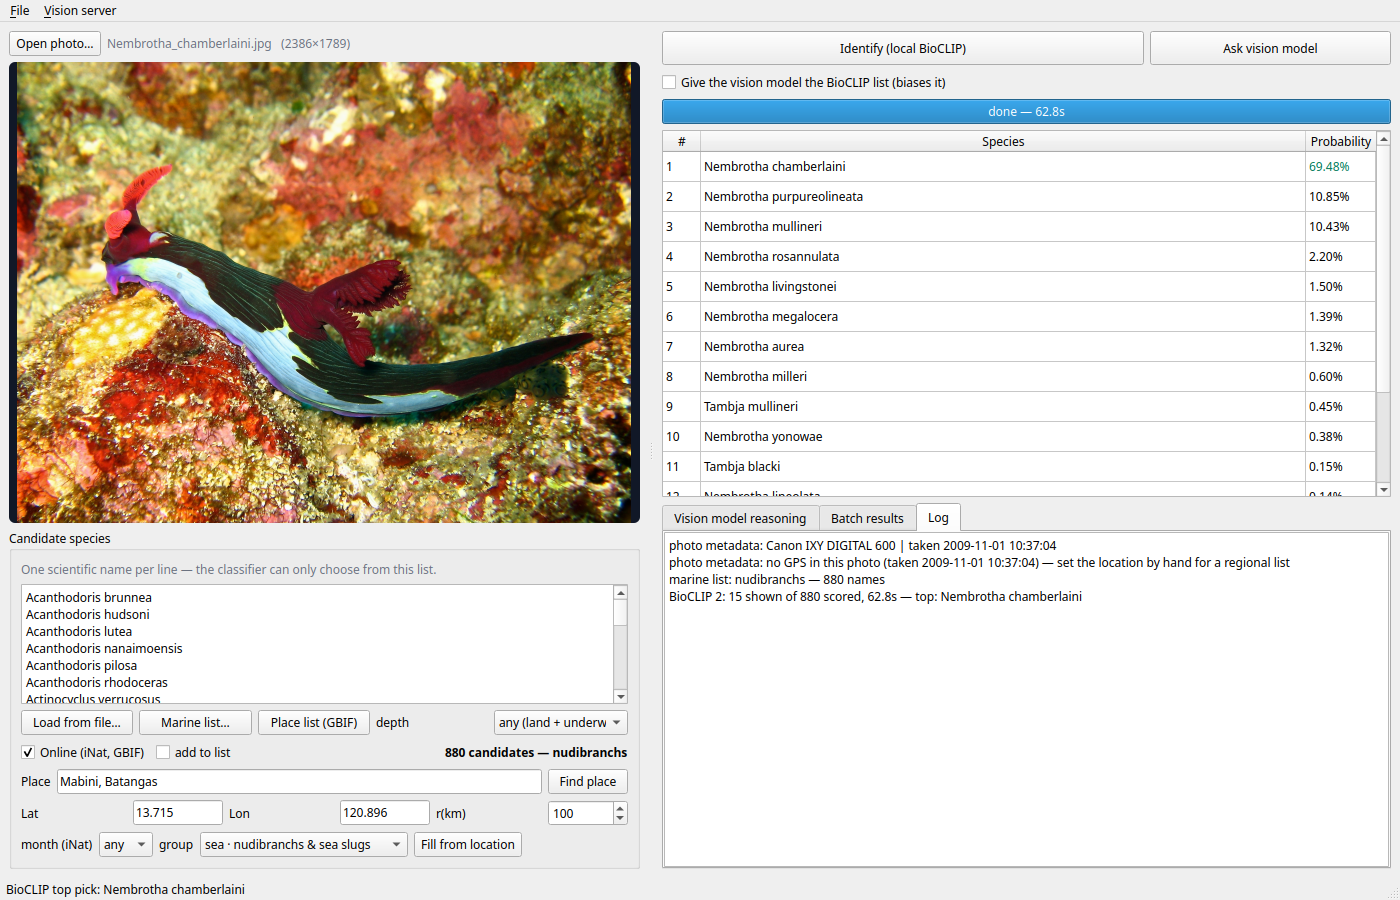
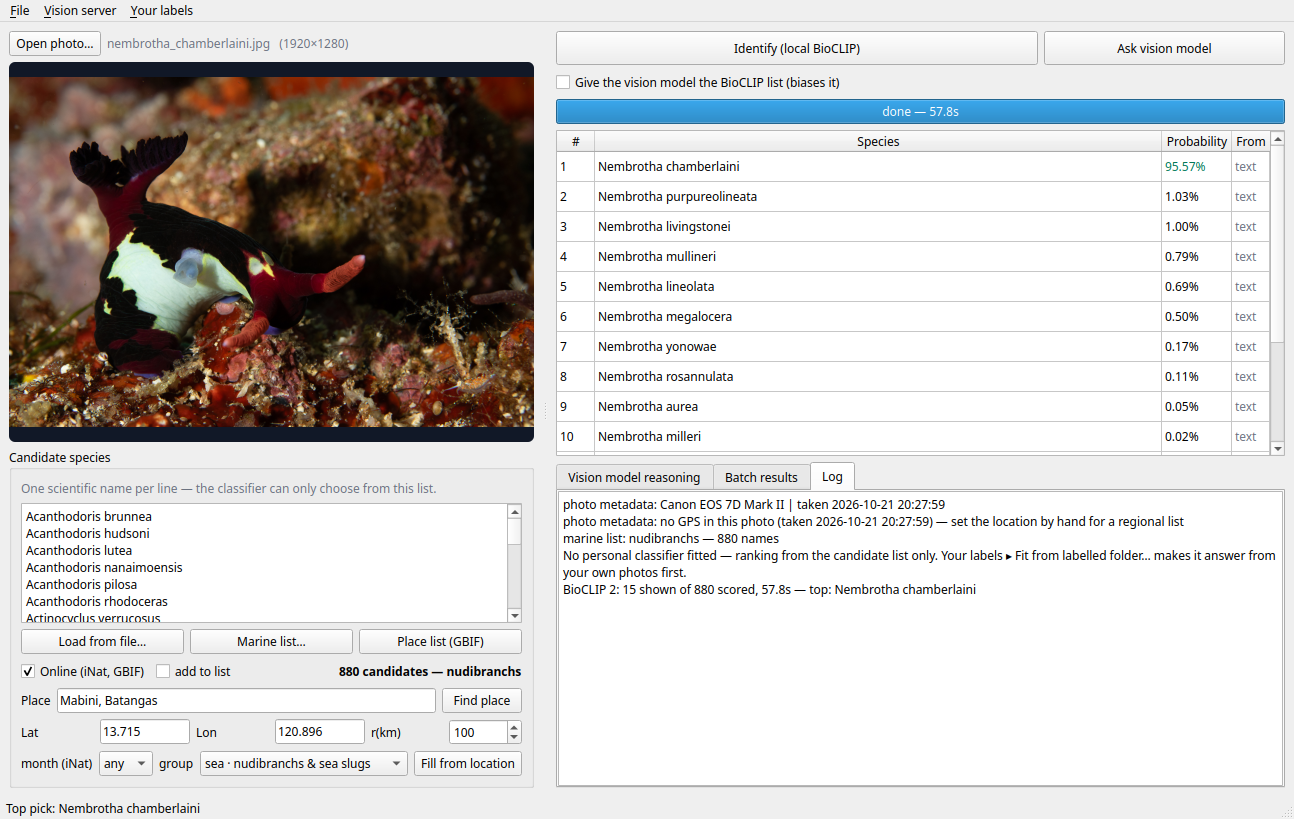
GBIF lookup inside the app, WoRMS as the marine browser link, current screenshot
"Open in GBIF" could not work by opening a URL: gbif.org's Cloudflare layer refuses every
deep link from this network while the homepage loads normally. Verified in a real browser,
not just curl — /species/search?q=…, /search?q=…, /species/4375211 and
/occurrence/search?taxon_key=… all return "Sorry, you have been blocked", while
www.gbif.org/ returns 200. iNaturalist returning 403 to curl is only ordinary bot-blocking,
which is why that link works for a human.

So the app asks api.gbif.org (which answers fine) and shows the verdict itself: match type,
accepted status, rank, the lineage down to family, and the worldwide record count. That is
more useful than the page would have been — it distinguishes ACCEPTED from SYNONYM from
unknown, which is what you need when checking a name.

Because a marine app should also link to the marine authority, "Open in WoRMS" is added
beside it; marinespecies.org answers 200 and its REST API returns AphiaID 208897 for
Xenocarcinus tuberculatus.

docs/screenshot.png regenerated from the shipped app: it was stale, still showing the old
three-column table and the depth control that no longer exists. It now shows the From
column, the Your labels menu, and the log line explaining that no personal classifier is
fitted — which is what a fresh clone sees.

diff --git a/species_gui.py b/species_gui.py
@@ -359,6 +359,25 @@ def get_engine():
 # --------------------------------------------------------------------------- #
 # Tier 1 — BioCLIP in a thread (model load is ~4 s, inference ~0.3 s)
 # --------------------------------------------------------------------------- #
+class GbifLookupWorker(QThread):
+    """Ask api.gbif.org about one name, because the website cannot be opened for it."""
+    done = pyqtSignal(dict)
+    failed = pyqtSignal(str)
+
+    def __init__(self, name: str):
+        super().__init__()
+        self.name = name
+
+    def run(self) -> None:
+        try:
+            if gbif_candidates is None:
+                self.failed.emit("gbif_candidates.py is missing from the app directory.")
+                return
+            self.done.emit(gbif_candidates.lookup_species(self.name))
+        except Exception as exc:
+            self.failed.emit(f"{type(exc).__name__}: {exc}")
+
+
 class PersonalFitWorker(QThread):
     """Embed every labelled photo in a folder and save the prototypes.
 
@@ -1897,6 +1916,85 @@ class MainWindow(QMainWindow):
         self.log.appendPlainText("iNaturalist: " + msg)
         self.statusBar().showMessage(msg.replace("\n", " ")[:160], 15000)
 
+    # -- GBIF, in the app -------------------------------------------------- #
+    def lookup_gbif(self, name: str) -> None:
+        """Show what GBIF's backbone says about a name, without opening gbif.org.
+
+        The website is unusable for this on many networks: its Cloudflare layer answers
+        403 to every /species/… deep link while the homepage loads. The API answers fine,
+        so the verdict is fetched and displayed here — and it is the more useful answer
+        anyway, because it says whether the name is ACCEPTED, a SYNONYM, or unknown.
+        """
+        if gbif_candidates is None:
+            QMessageBox.warning(self, APP_NAME, "gbif_candidates.py is missing.")
+            return
+        if getattr(self, "gbif_worker", None):
+            return
+        self.log.appendPlainText(f"GBIF lookup: {name}  (api.gbif.org — the website "
+                                 f"refuses deep links on some networks)")
+        self.gbif_worker = GbifLookupWorker(name)
+        self.gbif_worker.done.connect(self._show_gbif)
+        self.gbif_worker.failed.connect(self._gbif_failed)
+        self._track(self.gbif_worker)
+        self.gbif_worker.start()
+
+    def _gbif_failed(self, msg: str) -> None:
+        self.gbif_worker = None
+        self.log.appendPlainText(f"GBIF lookup failed: {msg}")
+        QMessageBox.warning(self, APP_NAME, f"GBIF lookup failed.\n\n{msg}")
+
+    def _show_gbif(self, d: dict) -> None:
+        self.gbif_worker = None
+        mt = d.get("matchType") or "NONE"
+        name = d.get("query") or "?"
+        if mt == "NONE":
+            self.log.appendPlainText(f"GBIF: no match for “{name}”.")
+            QMessageBox.information(
+                self, APP_NAME,
+                f"GBIF does not know “{name}”.\n\n"
+                f"That usually means a misspelling, a name GBIF has not indexed, or a "
+                f"trade/common name rather than a scientific one.")
+            return
+        lines = [f"{name}", ""]
+        lines.append(f"match:      {mt}")
+        if d.get("status"):
+            lines.append(f"status:     {d['status']}")
+        if d.get("rank"):
+            lines.append(f"rank:       {d['rank']}")
+        if d.get("scientificName"):
+            lines.append(f"GBIF name:  {d['scientificName']}")
+        if d.get("accepted") and d.get("accepted") != d.get("scientificName"):
+            lines.append(f"accepted as: {d['accepted']}")
+        path = " › ".join(x for x in (d.get("kingdom"), d.get("phylum"), d.get("class"),
+                                      d.get("order"), d.get("family"), d.get("genus")) if x)
+        if path:
+            lines.append(f"lineage:    {path}")
+        if d.get("records") is not None:
+            lines.append(f"records:    {d['records']:,} worldwide")
+        if mt != "EXACT":
+            lines.append("")
+            lines.append("Not an EXACT match — GBIF is offering something close, so check "
+                         "the name rather than trusting it.")
+        text = "\n".join(lines)
+        self.log.appendPlainText("GBIF: " + text.replace("\n", " | "))
+        box = QMessageBox(self)
+        box.setWindowTitle(APP_NAME)
+        box.setIcon(QMessageBox.Icon.Information)
+        box.setText(text)
+        box.setInformativeText("In-app lookup: gbif.org itself refuses deep links from "
+                               "some networks (Cloudflare 403).")
+        worms = box.addButton("Open in WoRMS", QMessageBox.ButtonRole.ActionRole)
+        inat = box.addButton("Open in iNaturalist", QMessageBox.ButtonRole.ActionRole)
+        box.addButton(QMessageBox.StandardButton.Close)
+        box.exec()
+        if box.clickedButton() is worms:
+            QDesktopServices.openUrl(QUrl(
+                "https://www.marinespecies.org/aphia.php?p=taxlist&searchpar="
+                + name.replace(" ", "+")))
+        elif box.clickedButton() is inat:
+            QDesktopServices.openUrl(QUrl(
+                f"https://www.inaturalist.org/search?q={name}"))
+
     # -- your own labels --------------------------------------------------- #
     def _personal_set(self):
         """(prototypes, labels) when fitted and enabled, else None.
@@ -2430,9 +2528,16 @@ class MainWindow(QMainWindow):
         a3 = m.addAction("Open in iNaturalist (browser)")
         a3.triggered.connect(
             lambda: QDesktopServices.openUrl(QUrl(f"https://www.inaturalist.org/search?q={name}")))
-        a4 = m.addAction("Open in GBIF (browser)")
-        a4.triggered.connect(
-            lambda: QDesktopServices.openUrl(QUrl(f"https://www.gbif.org/species/search?q={name}")))
+        # NOT gbif.org: every deep link on that site is refused by Cloudflare on this
+        # network — the homepage loads, /species/… and /occurrence/… return 403 in a real
+        # browser. The API answers, so ask the API and show the verdict here.
+        a4 = m.addAction("Look up in GBIF (in this app)")
+        a4.triggered.connect(lambda: self.lookup_gbif(name))
+        a4b = m.addAction("Open in WoRMS (browser)")
+        a4b.triggered.connect(
+            lambda: QDesktopServices.openUrl(QUrl(
+                "https://www.marinespecies.org/aphia.php?p=taxlist&searchpar="
+                + name.replace(" ", "+"))))
         a5 = m.addAction("Open in Google Images")
         a5.triggered.connect(
             lambda: QDesktopServices.openUrl(
@@ -2485,9 +2590,11 @@ class MainWindow(QMainWindow):
             m.addAction(f"Open “{selected}” in iNaturalist (browser)").triggered.connect(
                 lambda: QDesktopServices.openUrl(
                     QUrl(f"https://www.inaturalist.org/search?q={q}")))
-            m.addAction(f"Open “{selected}” in GBIF (browser)").triggered.connect(
-                lambda: QDesktopServices.openUrl(
-                    QUrl(f"https://www.gbif.org/species/search?q={q}")))
+            m.addAction(f"Look up “{selected}” in GBIF (in this app)").triggered.connect(
+                lambda: self.lookup_gbif(selected))
+            m.addAction(f"Open “{selected}” in WoRMS (browser)").triggered.connect(
+                lambda: QDesktopServices.openUrl(QUrl(
+                    "https://www.marinespecies.org/aphia.php?p=taxlist&searchpar=" + q)))
             m.addAction(f"Search images for “{selected}”").triggered.connect(
                 lambda: QDesktopServices.openUrl(
                     QUrl(f"https://www.google.com/search?tbm=isch&q={q}")))

diff --git a/gbif_candidates.py b/gbif_candidates.py
@@ -287,6 +287,47 @@ def _save_cache(d: dict) -> None:
         pass
 
 
+def lookup_species(name: str) -> dict:
+    """What GBIF knows about one name, queried through api.gbif.org.
+
+    This exists because the website cannot be used for it: every deep link on
+    www.gbif.org (/species/…, /occurrence/…) is refused by Cloudflare on this network
+    while the homepage loads normally — verified in a real browser, not just curl. The
+    API answers fine, so the app asks the API and shows the answer itself instead of
+    opening a page that will not render.
+
+    Returns a dict with the match verdict even when nothing matches, because "GBIF does
+    not know this name" is the useful answer in that case.
+    """
+    d = _get("species/match", name=name, strict="false")
+    out = {
+        "query": name,
+        "matchType": d.get("matchType"),
+        "status": d.get("status"),
+        "rank": d.get("rank"),
+        "scientificName": d.get("scientificName"),
+        "canonicalName": d.get("canonicalName"),
+        "accepted": d.get("acceptedScientificName"),
+        "usageKey": d.get("usageKey"),
+        "kingdom": d.get("kingdom"),
+        "phylum": d.get("phylum"),
+        "class": d.get("class"),
+        "order": d.get("order"),
+        "family": d.get("family"),
+        "genus": d.get("genus"),
+        "confidence": d.get("confidence"),
+        "records": None,
+    }
+    key = d.get("usageKey") or d.get("speciesKey")
+    if key:
+        try:
+            occ = _get("occurrence/search", taxonKey=key, limit=0)
+            out["records"] = occ.get("count")
+        except Exception:
+            out["records"] = None
+    return out
+
+
 def resolve_taxon_key(name: str, rank: str | None = None
                       ) -> tuple[int | None, str]:
     """GBIF backbone key for a taxon name. Cached on disk.
